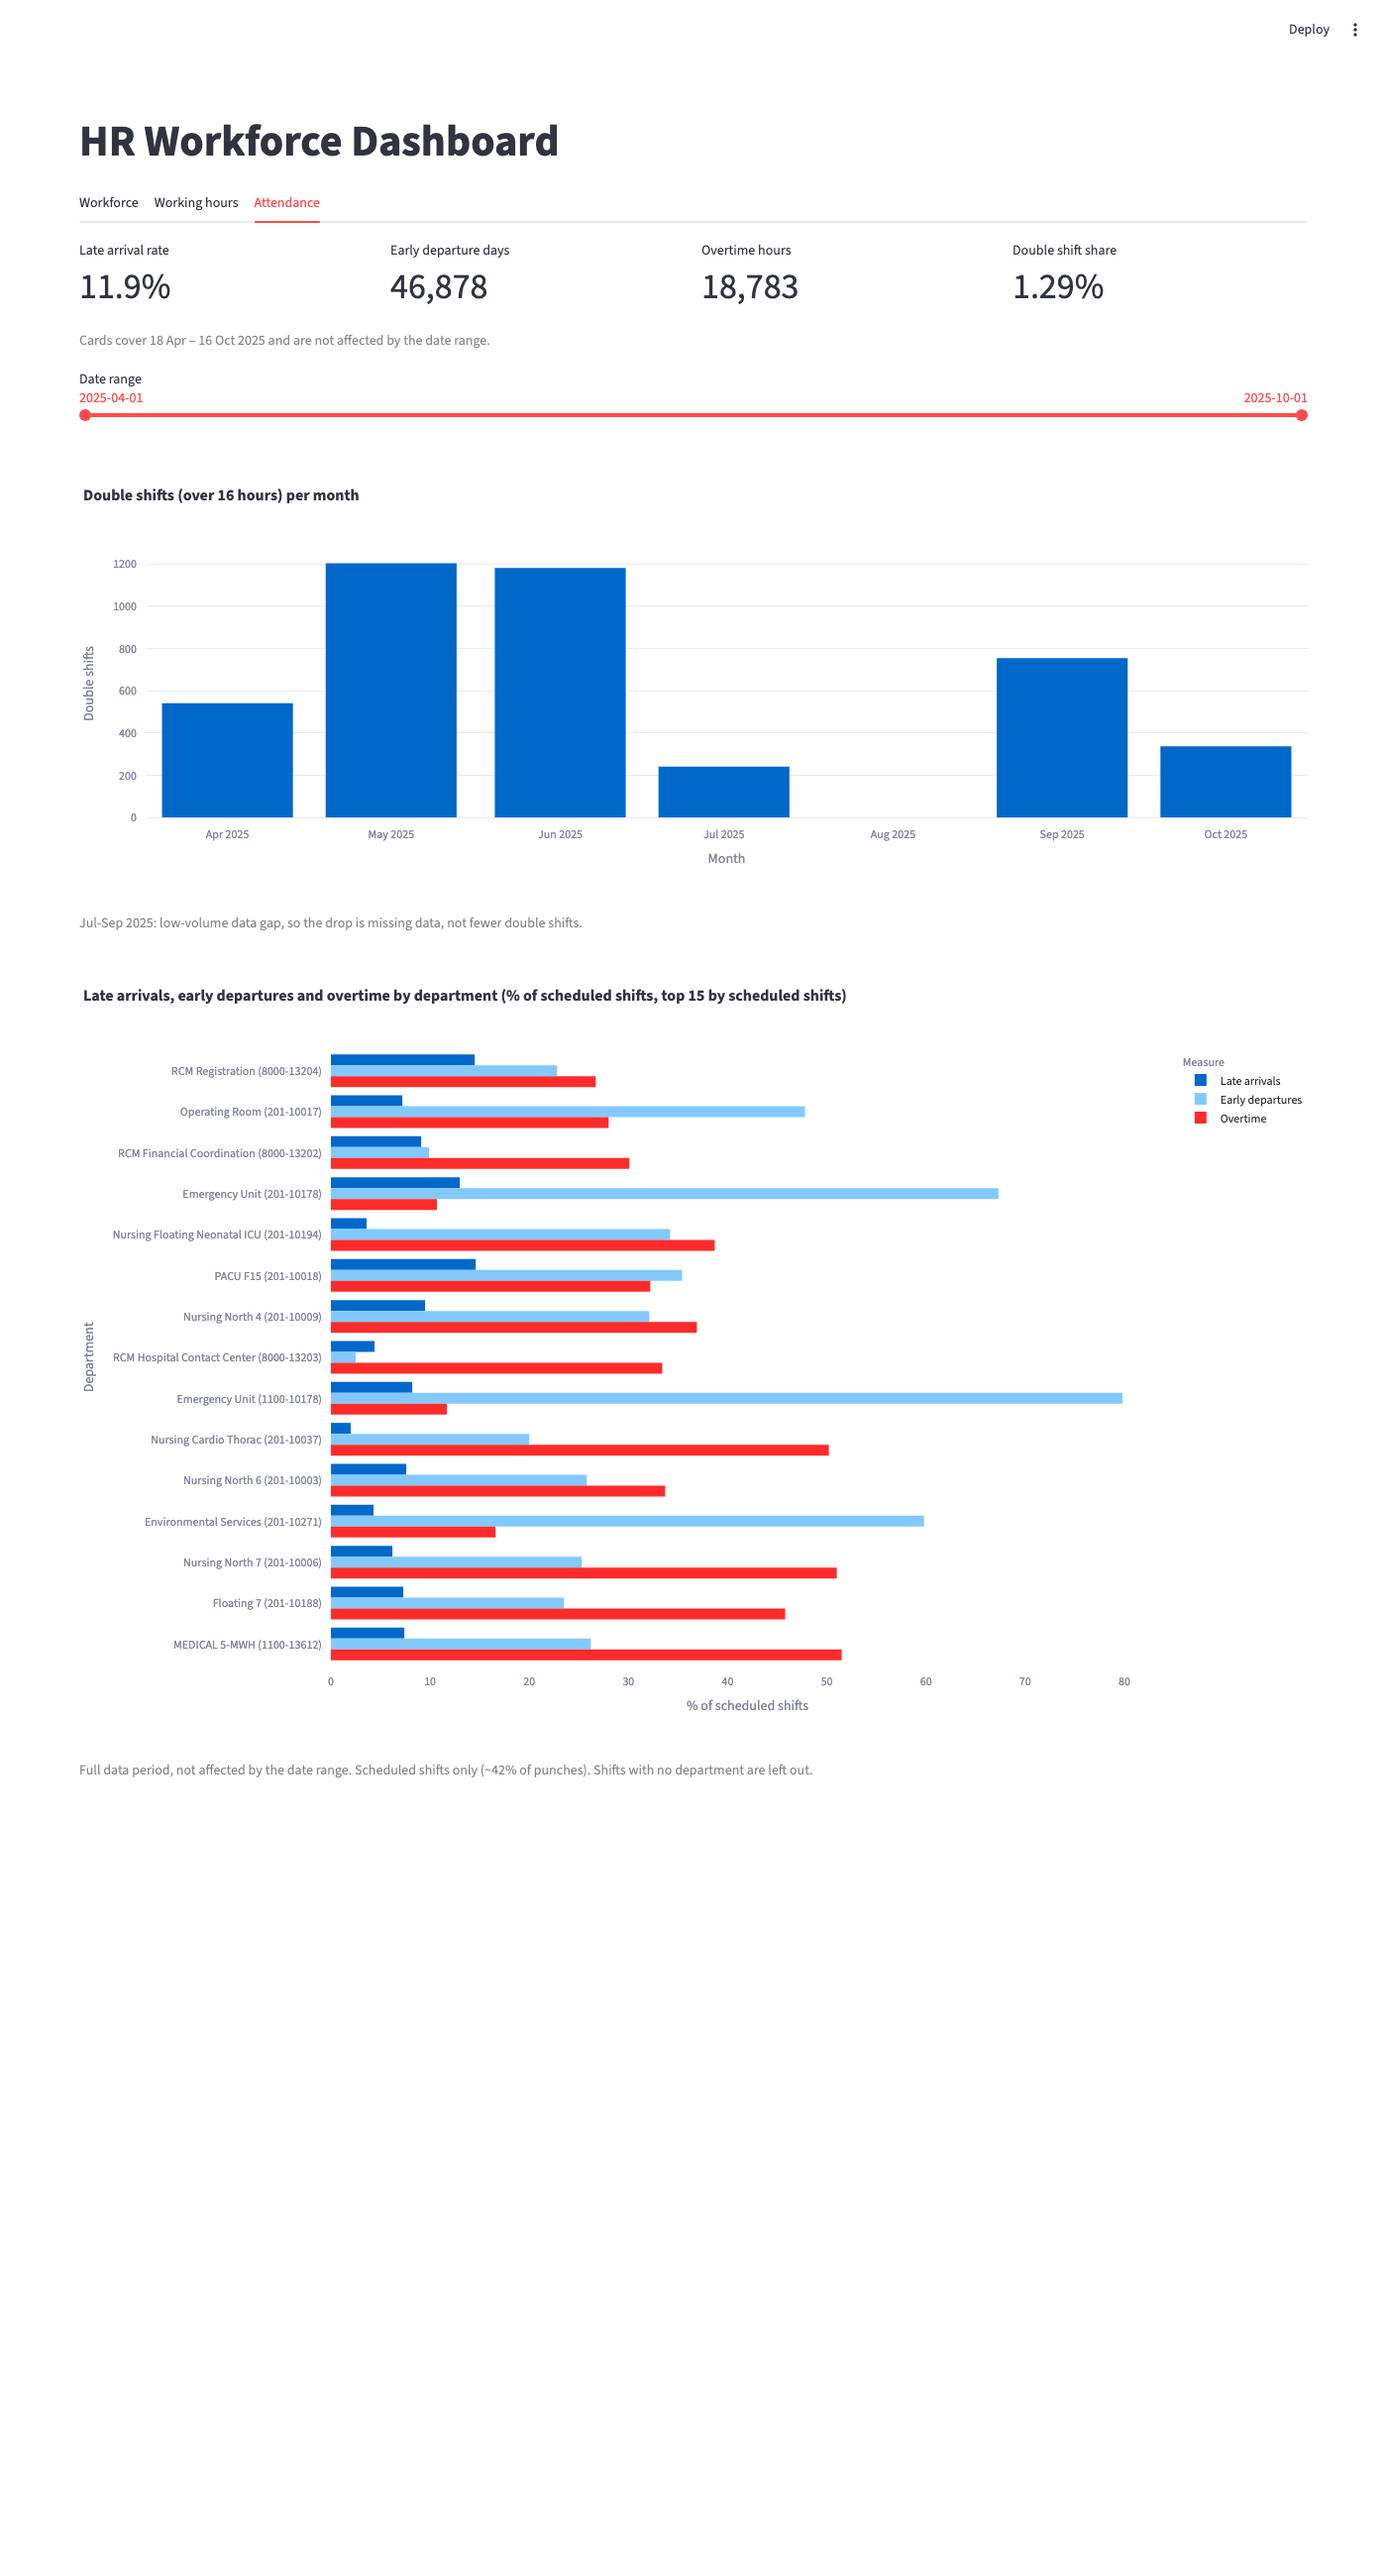
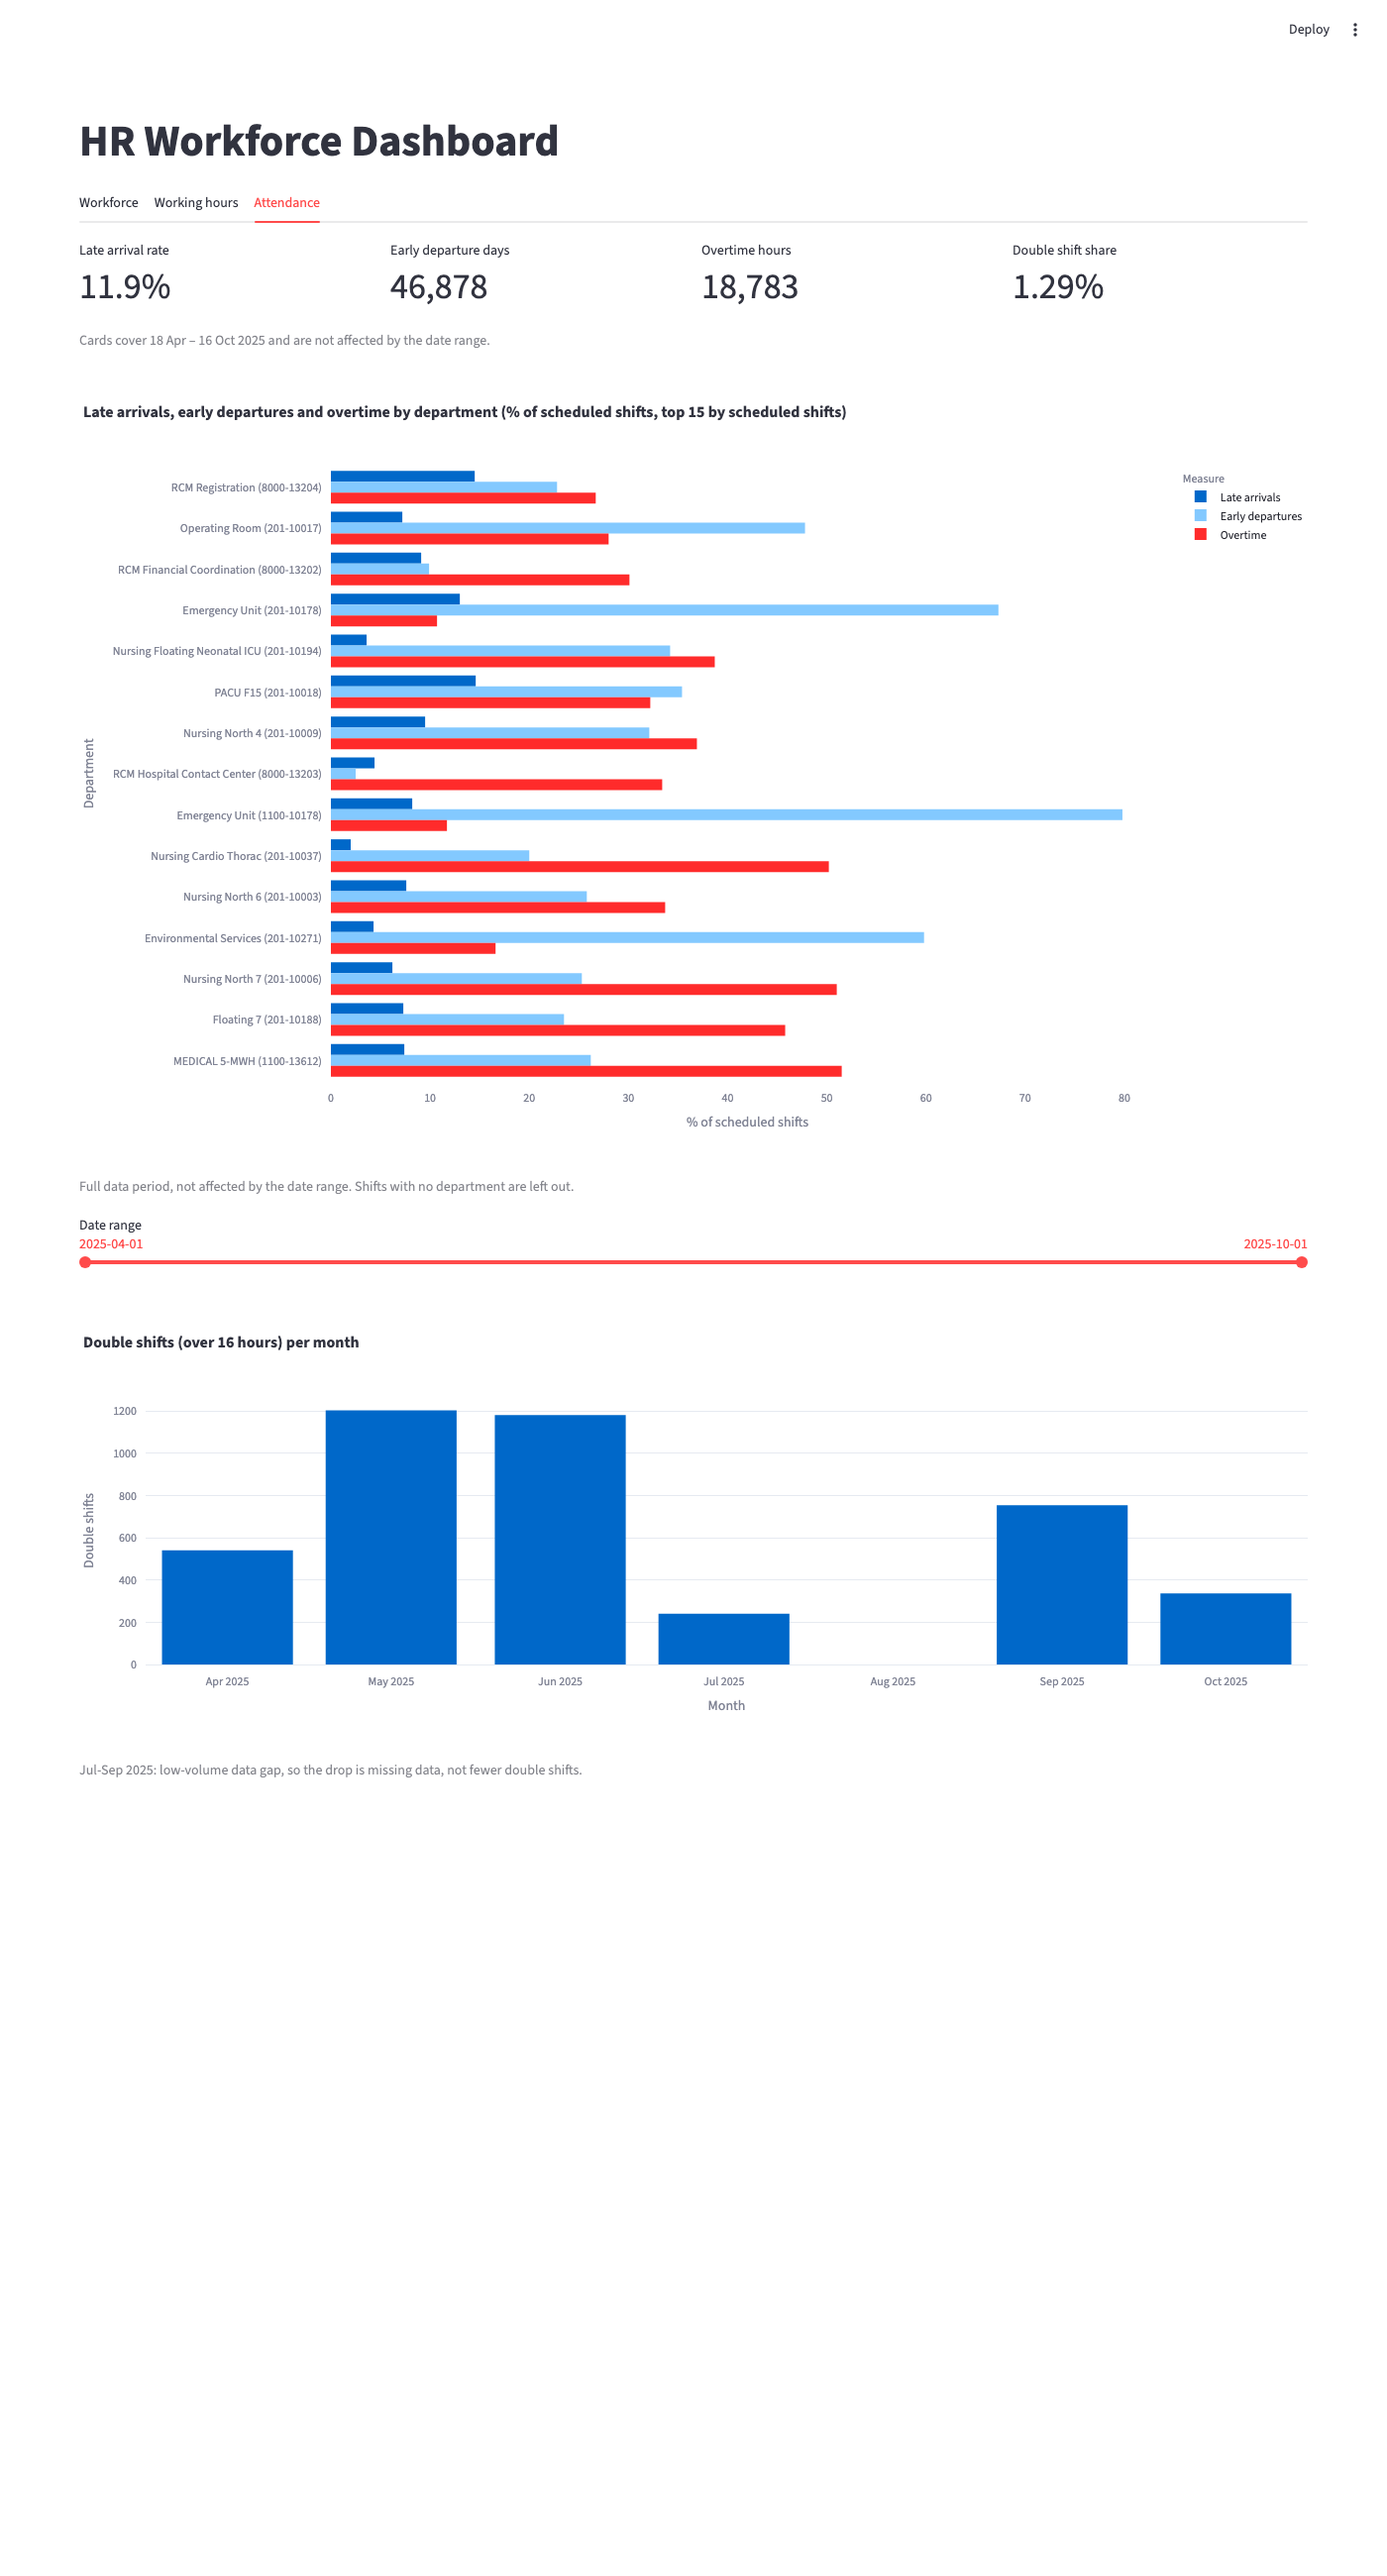
Move attendance by department above the date range and shorten its caption

diff --git a/dashboard/app.py b/dashboard/app.py
@@ -150,22 +150,6 @@ with attendance_tab:
     # Same timesheet period as the Working hours tab
     st.caption(f"Cards cover {period} and are not affected by the date range.")
 
-    start, end = date_filter("attendance_dates", long_shifts["month"].iloc[0],
-                             long_shifts["month"].iloc[-1])
-    fig = px.bar(
-        long_shifts[long_shifts["month"].between(start, end)],
-        x="month", y="double_shifts",
-        title="Double shifts (over 16 hours) per month",
-        labels={"month": "Month", "double_shifts": "Double shifts"},
-    )
-    # Whole numbers only
-    fig.update_yaxes(tickformat="d")
-    # One tick per month, shown as month and year
-    fig.update_xaxes(dtick="M1", tickformat="%b %Y", hoverformat="%b %Y")
-    st.plotly_chart(fig)
-    st.caption("Jul-Sep 2025: low-volume data gap, so the drop is missing "
-               "data, not fewer double shifts.")
-
     with_dept = attendance[attendance["department"] != "No department"]
     top = with_dept.nlargest(15, "scheduled_shifts")
     # Rates, so busy and quiet departments compare fairly
@@ -181,5 +165,21 @@ with attendance_tab:
         labels={"department": "Department", "value": "% of scheduled shifts",
                 "variable": "Measure"},
     ).update_yaxes(autorange="reversed"))
-    st.caption("Full data period, not affected by the date range. Scheduled "
-               "shifts only (~42% of punches). Shifts with no department are left out.")
+    st.caption("Full data period, not affected by the date range. "
+               "Shifts with no department are left out.")
+
+    start, end = date_filter("attendance_dates", long_shifts["month"].iloc[0],
+                             long_shifts["month"].iloc[-1])
+    fig = px.bar(
+        long_shifts[long_shifts["month"].between(start, end)],
+        x="month", y="double_shifts",
+        title="Double shifts (over 16 hours) per month",
+        labels={"month": "Month", "double_shifts": "Double shifts"},
+    )
+    # Whole numbers only
+    fig.update_yaxes(tickformat="d")
+    # One tick per month, shown as month and year
+    fig.update_xaxes(dtick="M1", tickformat="%b %Y", hoverformat="%b %Y")
+    st.plotly_chart(fig)
+    st.caption("Jul-Sep 2025: low-volume data gap, so the drop is missing "
+               "data, not fewer double shifts.")
